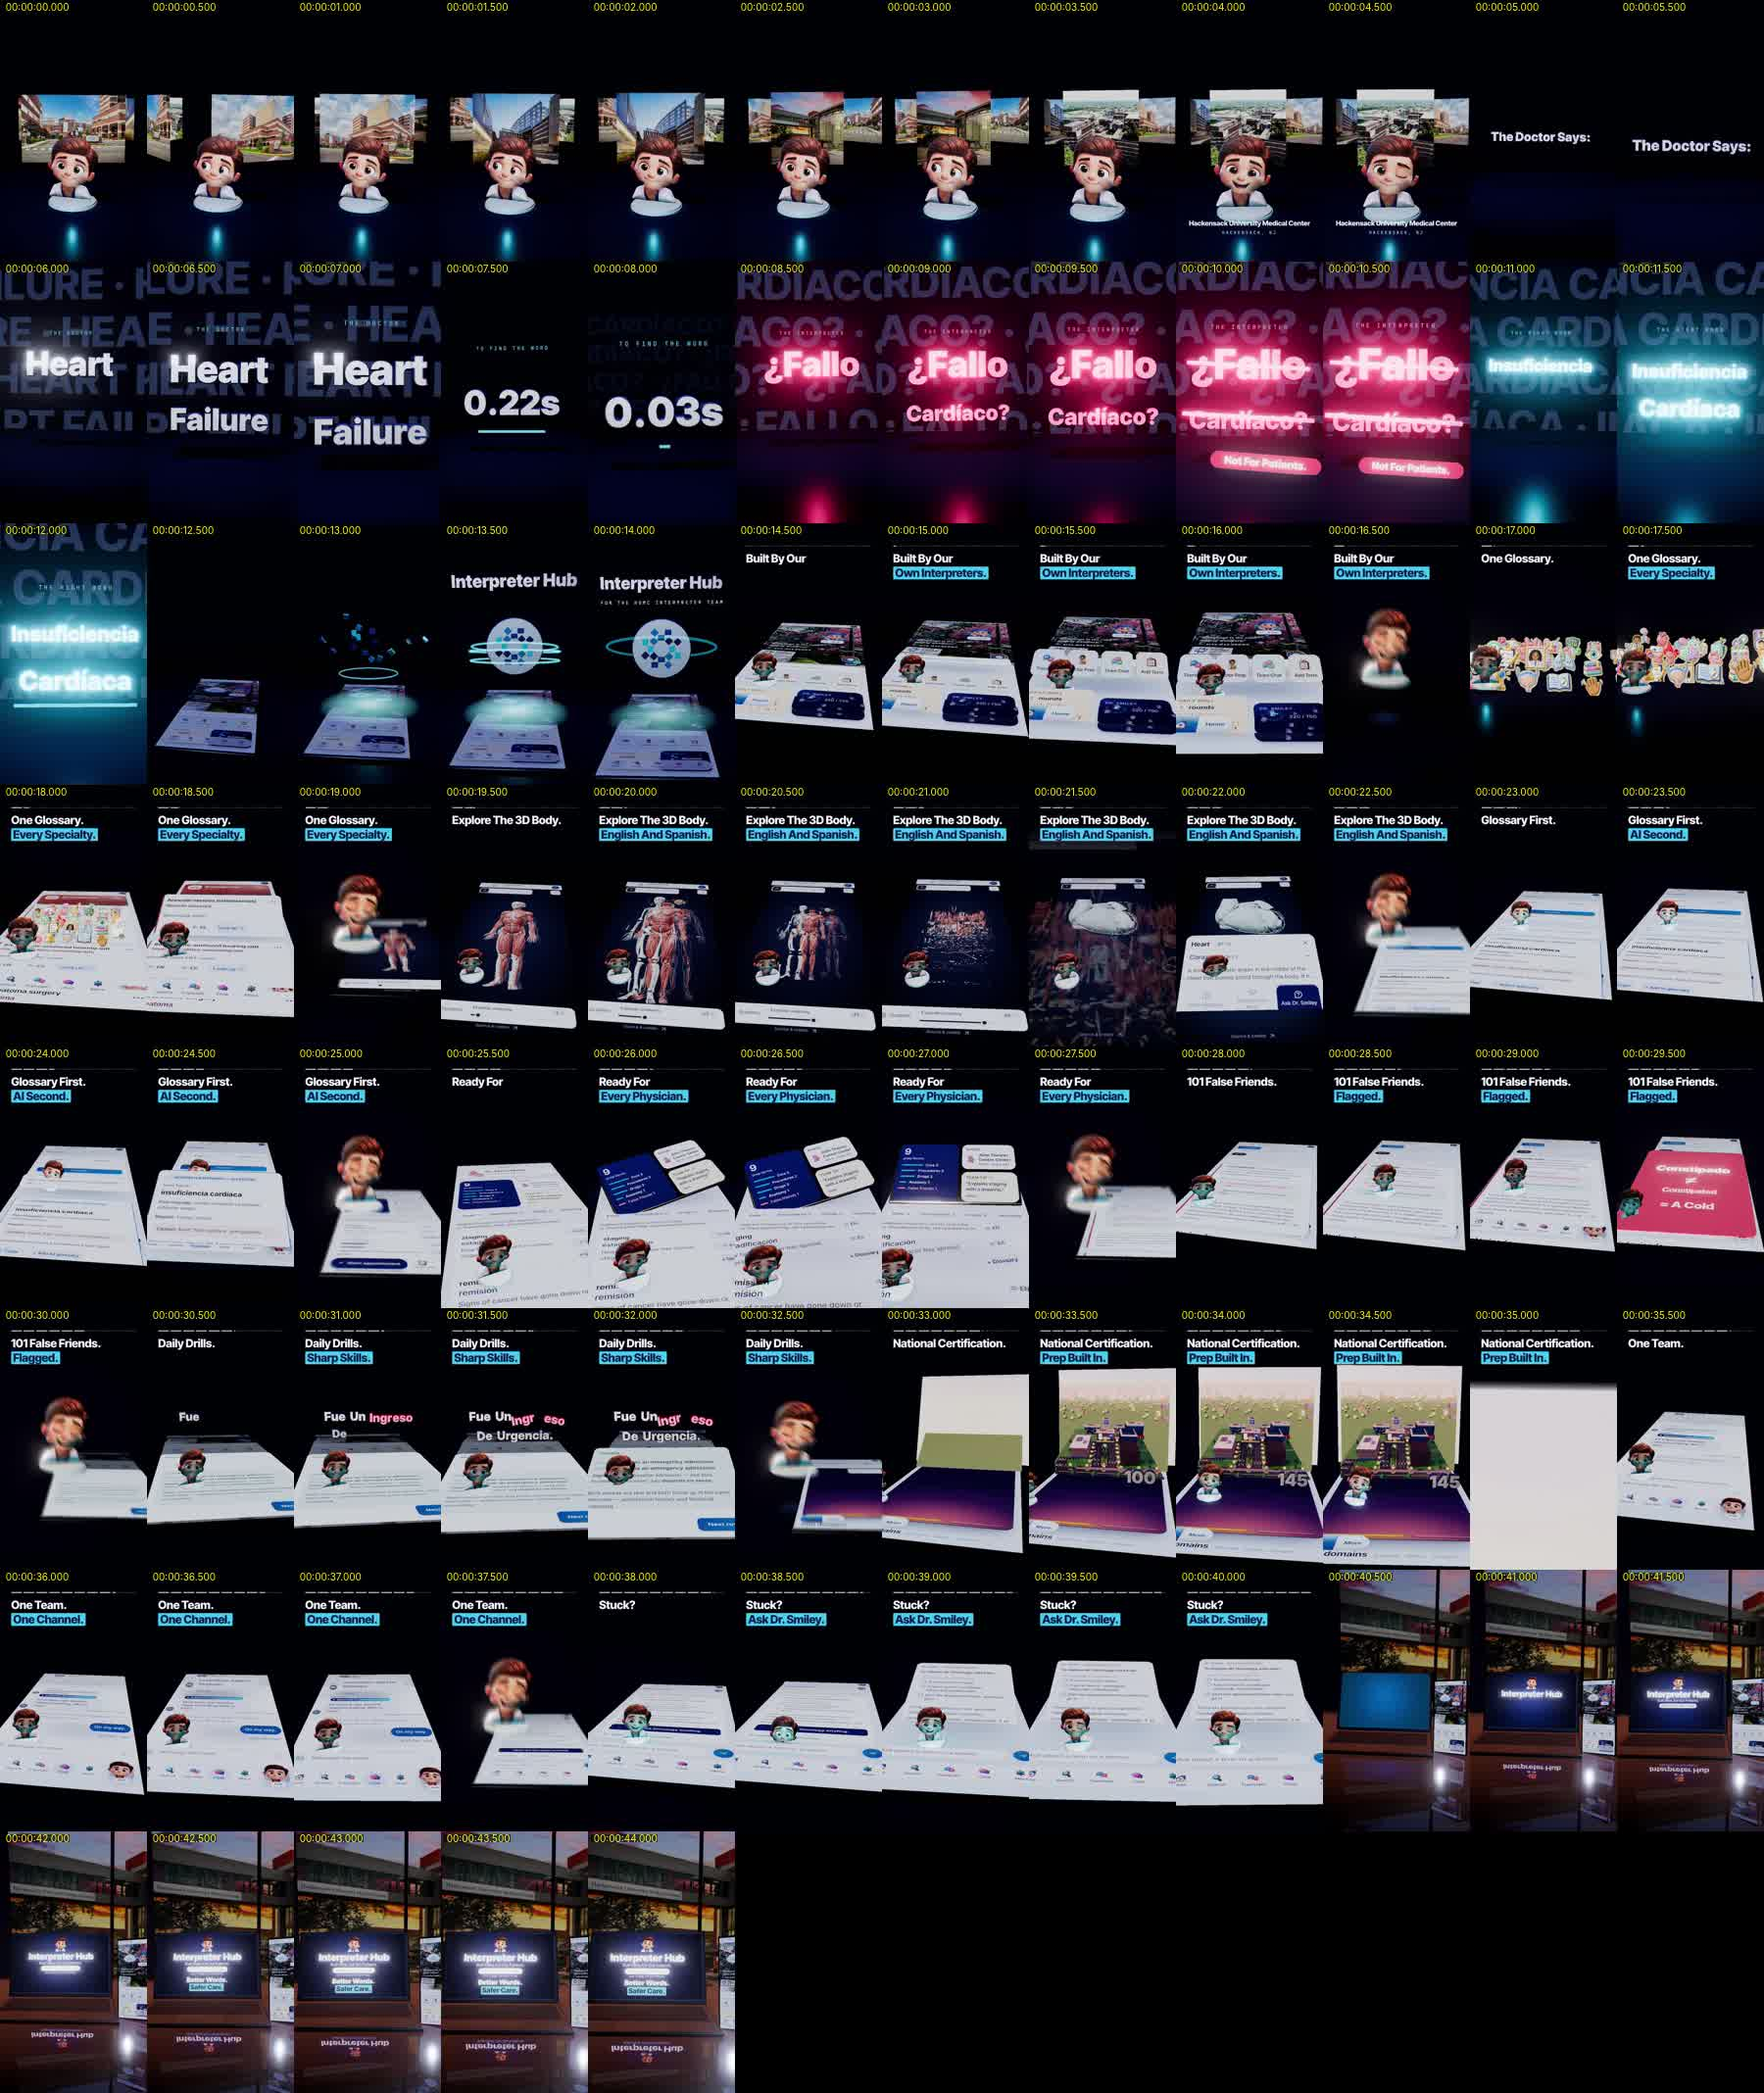
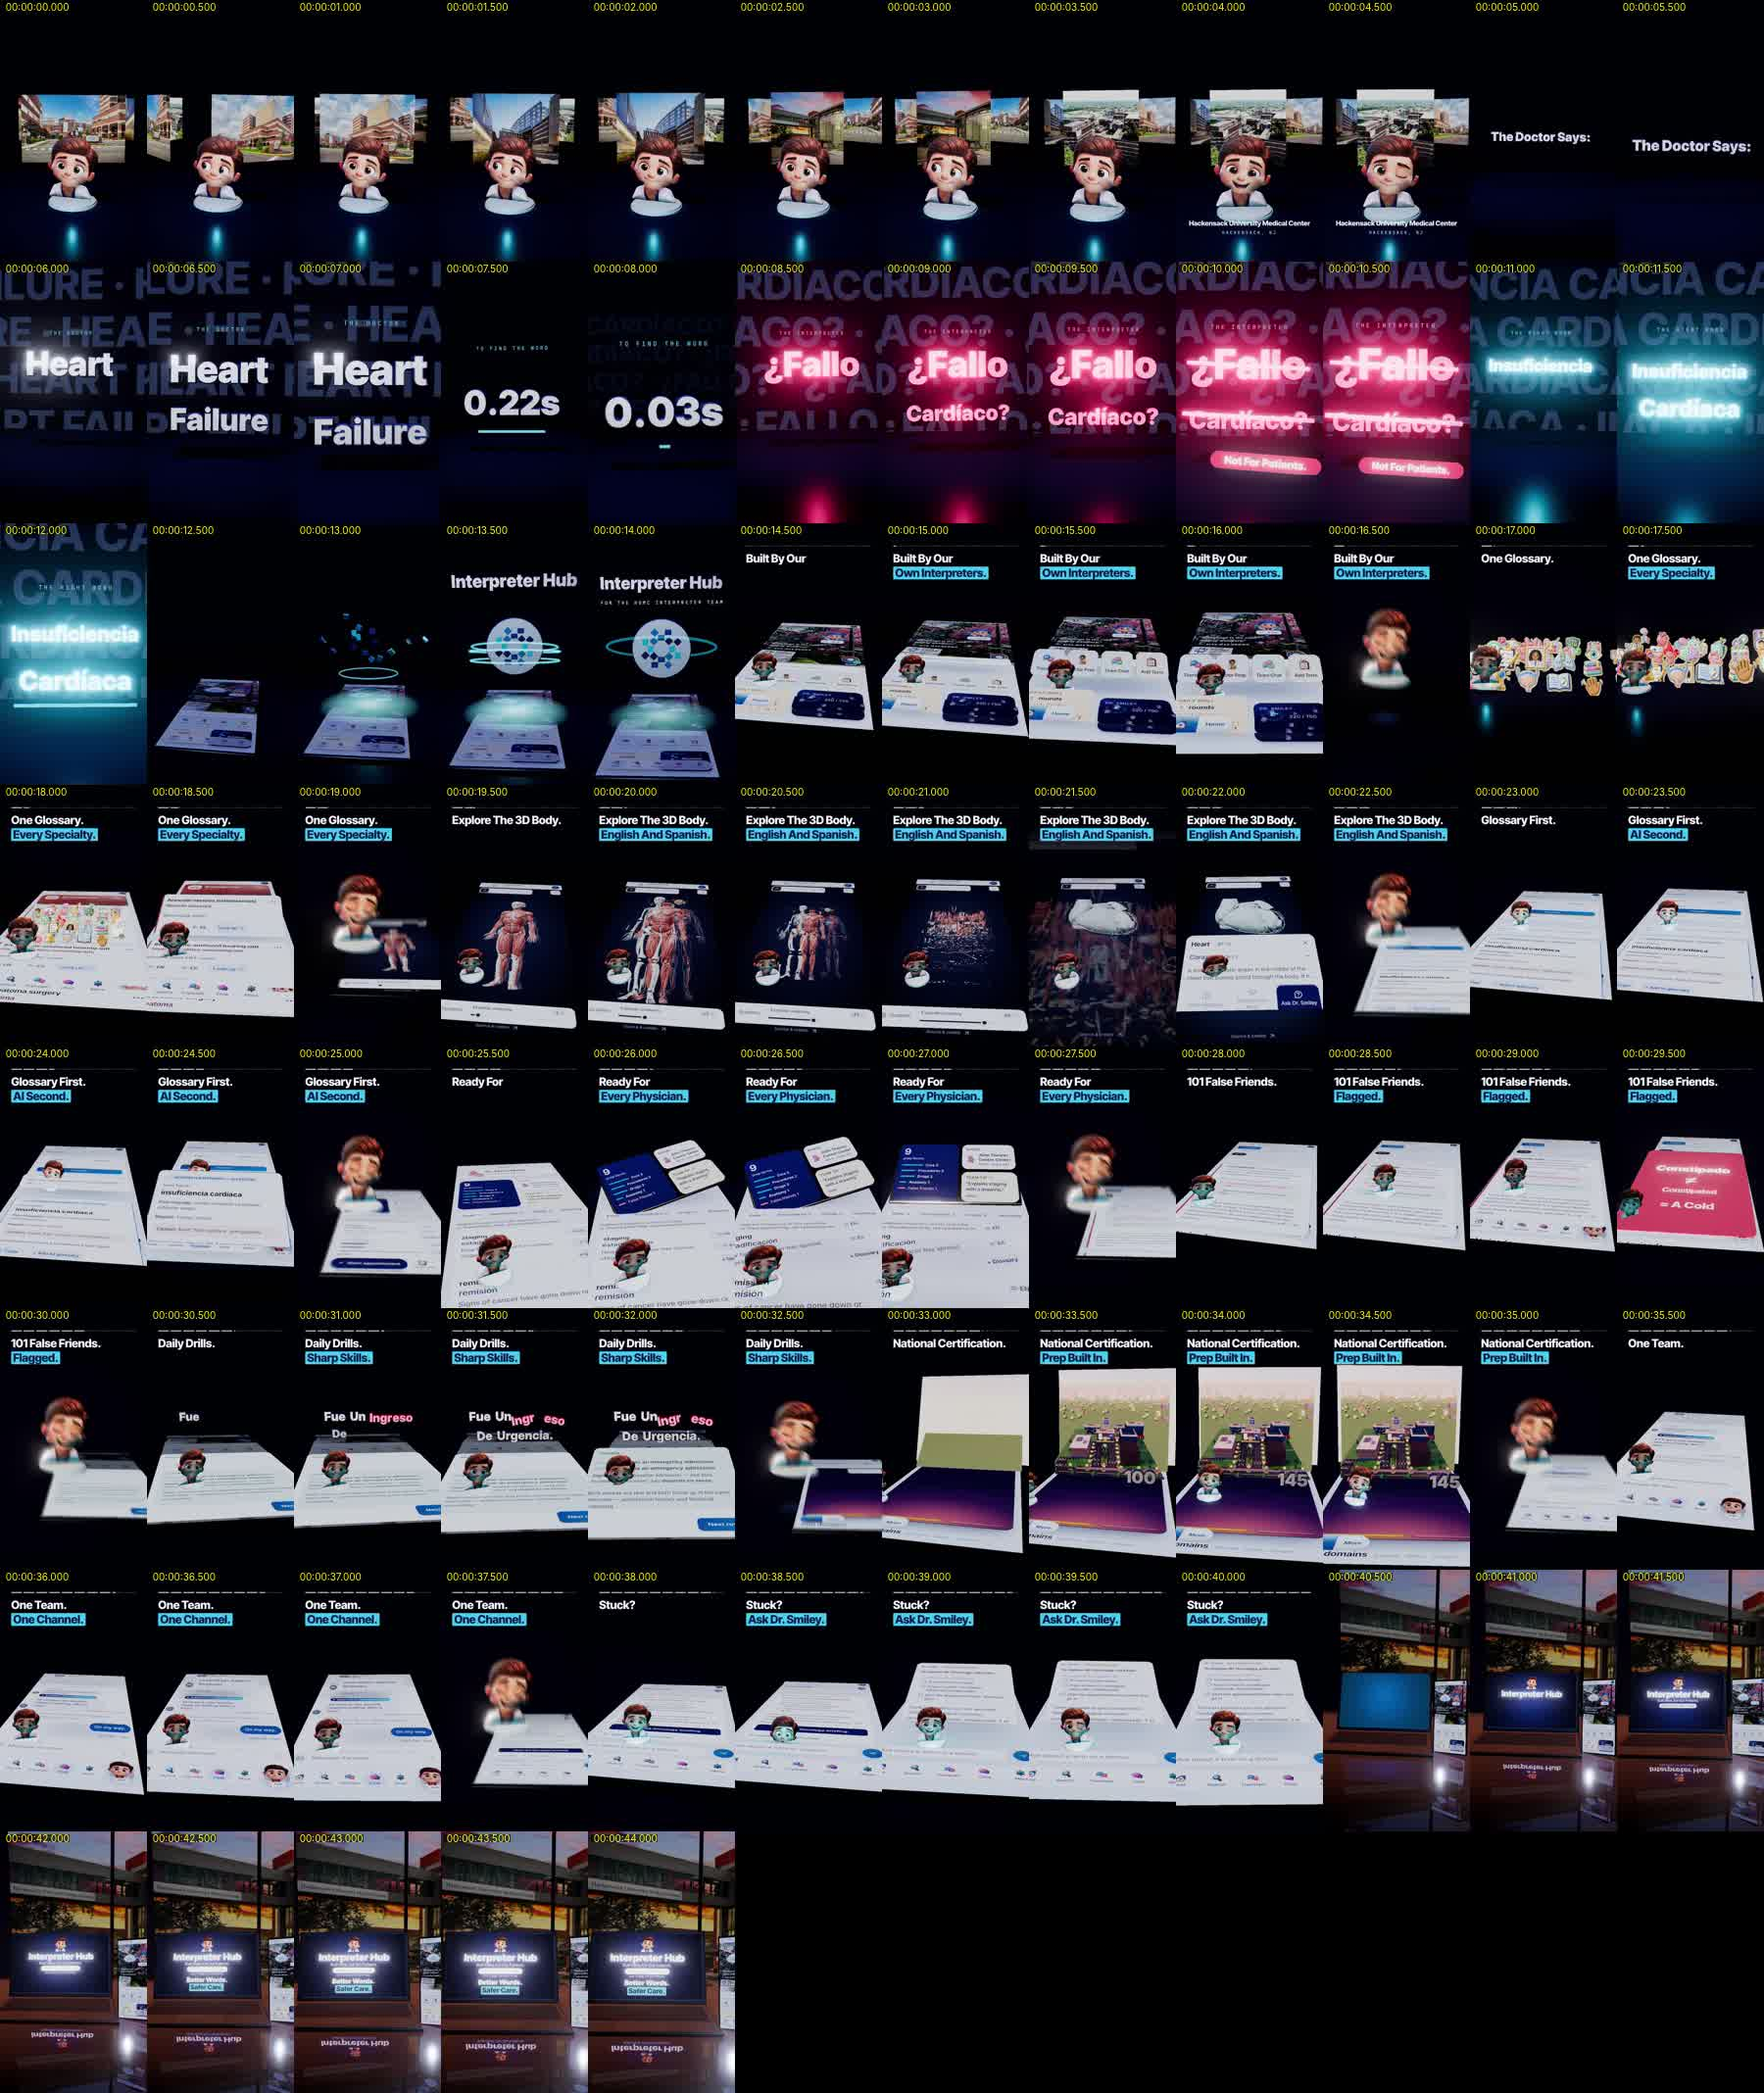
Promo remake: brief brought up to date; new draft sheet
Claude-Session: https://claude.ai/code/session_01DhjSXrbMgAuU9PQQNHN4eU

Changed region(s): [[0.8089, 0.6489, 0.9333, 0.7725]]

diff --git a/promo/hub-blend/BRIEF.md b/promo/hub-blend/BRIEF.md
@@ -158,6 +158,19 @@ distinct on screen.
    shots, the end card wider); Title Case on everything drawn (captions, hook,
    pill, drill words, the card back, the end lines). 40.5 s now (10 features);
    music re-cut to match (v11 0-37 s into its ending).
+   Third round (2026-10-20): Jose found the opener too fast and wanted
+   Dr. Smiley in it, in 3D, and the 3D Body coming apart like his
+   screenshot. Seven opener ideas were previewed (`tools/opener-lab.html`,
+   `tools/clip.cjs`); he picked "carousel": 5 s, Dr. Smiley centre stage,
+   the five photos circling behind him one at a time. Dr. Smiley is now a
+   rounded 3D figure everywhere (`createSmiley({ round: true })`, his outline
+   inflated into a smooth body). The 3D Body shot (3.5 s) plays 14 frames of
+   the real viewer coming apart (Explode 0-65%, `tools/capture-explode.cjs`)
+   before the dive to the heart. After the After Effects reference he chose
+   "Smiley links the shots": between features he hops phone to phone, the
+   camera riding with him, with motion blur (7 moments in a 0.35-frame
+   shutter, only on hops and fly-throughs). 44.5 s; music is v11's whole
+   track. A full draft renders in about 13 min.
    Known for step 7: the end card's lines are small at phone size (the
    laptop screen is landscape inside a portrait frame); the phone in the end
    card is mostly off frame; the Team shot's lift is subtle.
